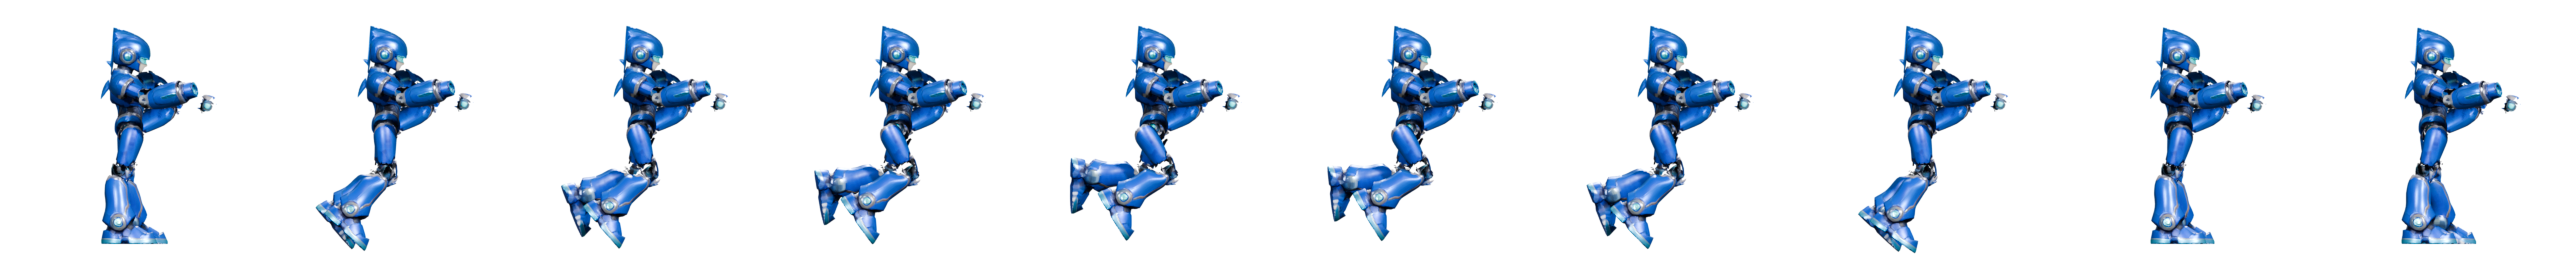
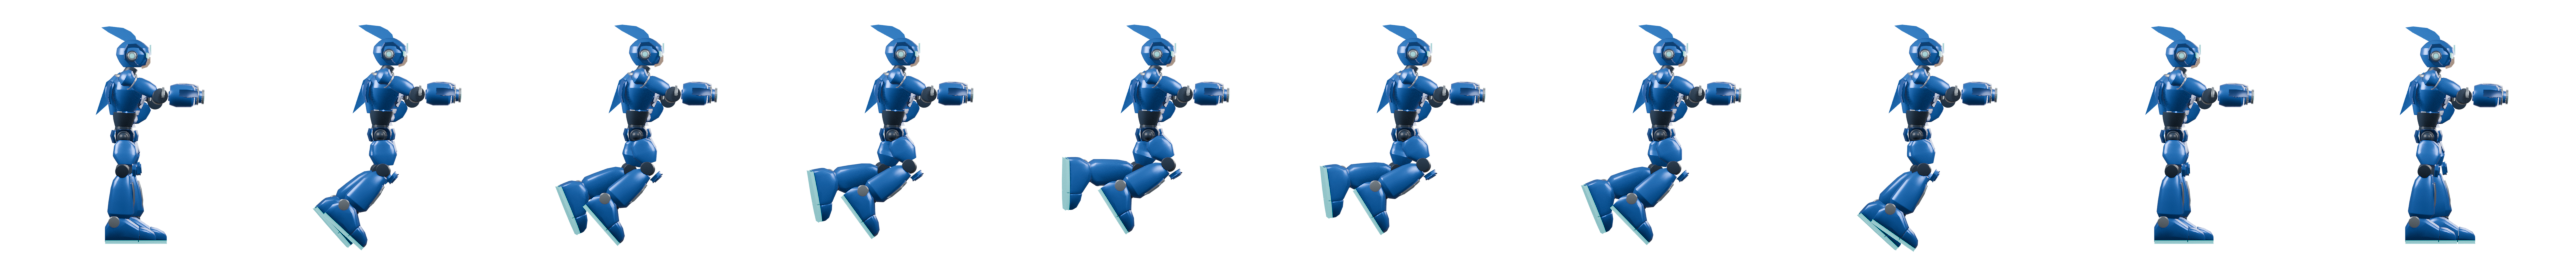
[claude] char: hold Rodin hero, restore shell hero with new motion set
The Sketch-tier mesh (3,671 open-sheet fragments, left arm fused to the
flank) cannot pass quality: every remesh/bake/binding combination leaves
either tenting membranes, double-wall lacing or bake moire - full
experiment ledger in HANDOFF. Generated assets and the complete
retarget pipeline are preserved under blender/hero/gen_v1/ for a retry
with a manifold-quality generation. Local tree = shell hero at
ASSET_VER 2026071804 with the wide-stride/combat-idle motion work,
verified 43/48/30 and in-game. Not deployed.

diff --git a/index.html b/index.html
@@ -167,7 +167,7 @@ function manageBgm(){            // 毎フレーム呼ぶ（状態に応じてBG
 // 各エンティティ＝{fw,fh,scale,ax,ay, anims:{name:{src,frames,fps}}}。
 // anim毎に1枚の横ストリップPNG（コマを横一列）。素材配置後にここを記述する。
 // ★キャッシュ無効化: 素材PNGを差し替えたら ASSET_VER を変えると、ブラウザ/CDNが必ず新素材を取得する。
-const ASSET_VER = '2026072003';
+const ASSET_VER = '2026071804';
 function _av(s){ return s + (s.indexOf('?')<0 ? '?v=' : '&v=') + ASSET_VER; }
 const ASSETS = {
   // 現在のBlender全身リグを、ローカル実機テスト用にそのまま書き出した3Dレンダー。
@@ -975,7 +975,7 @@ const RUN_CYCLE_DISTANCE=64;
 const HERO3D_ENABLED=!(typeof globalThis!=='undefined' && globalThis.location &&
   /(?:^|[?&])hero=legacy(?:&|$)/.test(globalThis.location.search||''));
 // export_game_sprites.py が同じレンダーから生成する砲口座標。実データは素材検査後に埋め込む。
-const PLAYER3D_MUZZLE={"idle":[[177.0215,163.2643],[175.9825,163.8596],[175.0066,164.3982],[174.1627,164.8482],[173.5117,165.1856],[173.1008,165.3942],[172.9604,165.4647],[173.1008,165.3942],[173.5117,165.1856],[174.1627,164.8482],[175.0066,164.3982],[175.9825,163.8596],[177.0215,163.2643],[178.0515,162.6511],[179.003,162.0638],[179.8135,161.5474],[180.4312,161.1435],[180.8176,160.8863],[180.949,160.798],[180.8176,160.8863],[180.4312,161.1435],[179.8135,161.5474],[179.003,162.0638],[178.0515,162.6511]],"shoot":[[210.7004,106.2473],[206.5981,112.0933],[208.5448,109.4154],[209.9409,107.4138],[210.7004,106.2473],[210.7004,106.2473],[210.7004,106.2473],[210.7004,106.2473]],"charge":[[210.1684,113.4474],[210.1799,113.7107],[210.1877,113.9035],[210.1905,113.974],[210.1877,113.9035],[210.1799,113.7107],[210.1684,113.4474],[210.1562,113.1841],[210.1467,112.9914],[210.1431,112.9209],[210.1467,112.9914],[210.1562,113.1841]],"run":[[63.423,82.7201],[60.2666,85.2205],[59.2815,92.2721],[63.531,100.9201],[68.8548,113.0884],[77.8346,126.3118],[89.633,137.8103],[102.0962,146.0519],[112.7521,151.0684],[119.7201,153.486],[125.769,155.4979],[119.3615,155.5499],[110.3531,153.5692],[101.7187,146.5058],[89.5489,137.3766],[77.8346,126.3118],[68.4449,113.9501],[62.4165,101.7535],[59.6615,91.4934],[59.1727,84.3792]],"runshoot":[[235.469,110.9919],[231.9753,111.5892],[230.2522,111.4503],[232.1305,108.4977],[231.9643,106.5634],[231.6951,105.8562],[231.4256,106.0927],[231.2588,106.9878],[231.2588,108.2442],[231.4256,109.2338],[235.4596,110.9919],[231.9533,111.5892],[230.2396,111.4503],[232.1305,108.4977],[231.9643,106.5634],[231.6951,105.8562],[231.4256,106.0927],[231.2588,106.9878],[231.2588,108.2442],[231.4256,109.2338]],"runcharge":[[234.5294,114.1387],[231.0356,114.7357],[229.3124,114.5965],[231.1907,111.6438],[231.0246,109.7099],[230.7555,109.0031],[230.4861,109.24],[230.3193,110.1353],[230.3193,111.3918],[230.4861,112.3811],[234.52,114.1387],[231.0136,114.7357],[229.2999,114.5965],[231.1907,111.6438],[231.0246,109.7099],[230.7555,109.0031],[230.4861,109.24],[230.3193,110.1353],[230.3193,111.3918],[230.4861,112.3811]],"jump":[[70.8593,158.6146],[88.8877,163.5669],[114.0146,168.8908],[133.0654,170.28],[126.0113,172.0219],[115.1051,173.2955],[103.5014,173.1277],[90.3864,170.5642],[96.1457,171.8802],[104.2799,175.6779]],"jumpshoot":[[214.0271,108.887],[214.9694,107.1594],[214.9694,107.1594],[214.9694,107.1594],[214.9694,107.1594],[214.9694,107.1594],[214.9694,107.1594],[214.9694,107.1594],[215.5976,108.7299],[214.0271,108.9813]]};
+const PLAYER3D_MUZZLE={"idle":[[179.0889,145.3695],[178.2556,145.9871],[177.4705,146.5497],[176.7897,147.0228],[176.2633,147.3795],[175.9307,147.6009],[175.8169,147.6759],[175.9307,147.6009],[176.2633,147.3795],[176.7897,147.0228],[177.4705,146.5497],[178.2556,145.9871],[179.0889,145.3695],[179.9122,144.7376],[180.6704,144.1362],[181.3143,143.6102],[181.8038,143.2006],[182.1095,142.9404],[182.2134,142.8513],[182.1095,142.9404],[181.8038,143.2006],[181.3143,143.6102],[180.6704,144.1362],[179.9122,144.7376]],"shoot":[[200.9185,94.4645],[196.4451,99.1412],[198.536,96.9883],[200.0745,95.3919],[200.9185,94.4645],[200.9185,94.4645],[200.9185,94.4645],[200.9185,94.4645]],"charge":[[200.9762,100.7273],[201.0196,100.9625],[201.051,101.1348],[201.0624,101.1979],[201.051,101.1348],[201.0196,100.9625],[200.9762,100.7273],[200.932,100.4922],[200.8993,100.3202],[200.8872,100.2573],[200.8993,100.3202],[200.932,100.4922]],"run":[[74.2389,79.8692],[71.0413,82.3312],[70.0437,89.0359],[74.231,97.1181],[79.3487,108.6717],[87.9438,121.4269],[99.2358,132.7346],[111.1806,141.0669],[121.4018,146.3471],[128.0711,149.0495],[133.9824,151.2395],[127.6216,151.2951],[118.8631,149.1505],[110.6719,141.8369],[99.0736,132.5066],[87.9438,121.4269],[79.0261,109.3092],[73.2755,97.5816],[70.6015,87.8855],[70.0659,81.2607]],"runshoot":[[224.1437,100.1171],[220.6302,100.7275],[218.8948,100.5967],[220.7731,97.644],[220.6192,95.7018],[220.3699,94.9814],[220.12,95.2046],[219.9653,96.0914],[219.9654,97.3478],[220.12,98.3457],[224.1343,100.1171],[220.6082,100.7275],[218.8822,100.5967],[220.7731,97.644],[220.6192,95.7018],[220.3699,94.9814],[220.12,95.2046],[219.9653,96.0914],[219.9654,97.3478],[220.12,98.3457]],"runcharge":[[223.4194,102.7943],[219.9061,103.4048],[218.1707,103.2739],[220.049,100.3213],[219.8951,98.3791],[219.6456,97.6586],[219.3957,97.8818],[219.241,98.7686],[219.241,100.025],[219.3957,101.0229],[223.41,102.7943],[219.8841,103.4048],[218.1581,103.274],[220.049,100.3213],[219.8951,98.3791],[219.6456,97.6586],[219.3957,97.8818],[219.241,98.7686],[219.241,100.025],[219.3957,101.0229]],"jump":[[85.5049,144.0227],[102.0391,149.1371],[124.8352,154.7089],[141.9381,154.9372],[135.3369,155.3253],[125.3617,155.592],[114.8804,154.8533],[103.0518,152.4178],[108.6454,154.5063],[115.4707,156.998]],"jumpshoot":[[204.2118,97.0609],[205.1541,95.3334],[205.1541,95.3334],[205.1541,95.3334],[205.1541,95.3334],[205.1541,95.3334],[205.1541,95.3334],[205.1541,95.3334],[205.7823,96.9039],[204.2118,97.1552]]};
 let playerRenderInfo={source:'none',anim:null,frame:null,chargeOverlay:false};
 
 function player3DRunFrame(distance){

diff --git a/HANDOFF.md b/HANDOFF.md
@@ -1,5 +1,14 @@
 # HANDOFF — Claude ↔ Codex 協働ログ（新しい順に上へ追記）
 
+## 2026-07-20 — [claude] hero-gen-hold: 生成キャラを品質不足で保留・シェル版へ復帰（ローカル）
+- ユーザー指摘「造形がぶっ壊れてない？」→ 全コマ精査で確認: 生成キャラは肘ジュエル浮遊・輪郭ギザつき・腕融合の板状アーティファクトが実用基準未達。修復を10回超イテレーションした結論:
+  - **根本原因はRodin Sketchティアの素性**: ①3,671断片の開いた薄板メッシュ（Bone Heat不成立・剛体バインドは境界破綻） ②左腕が体側に密着した非対称ポーズで、ボクセルリメッシュすると脇〜腰に融合膜が生成され、ポーズで必然的にテントする（実測: f12でエッジ伸長>1.6が2,760頂点・腕/脚/胴の境界全域）。
+  - 試行と結果の台帳: 剛体最近傍→領域制限→BFSリム分割→アイランド多数決→関節ジュエル強制（浮遊解消も融合膜残存）／防水リメッシュ+Bone Heat（走り・射撃はクリーン化、脇膜がテント）／細ボクセル=開板の二重壁レース化・粗ボクセル=穴／ベイク4方式（Cycles画像・Cycles頂点・BVH最近傍・外側レイキャスト）は多重シェル内面の干渉で全滅、側面投影は遮蔽で破綻、ゾーン塗りで色は解決するが土台の斑が幾何起因と判明／腕分離リメッシュ（3分割）はスカルプトAPI版で密度不安定。**唯一の良好組合せ=全体一括モディファイアリメッシュ+Cyclesベイク**だが融合膜アーティファクトが残る。
+  - **再挑戦の正道（次回タスク）**: 上位ティアRodin/Tripo等の**マニフォールド一枚メッシュ**で再生成すれば、構築済みパイプライン（`gen_v1/build_clean_rig.py`: ランドマークフィット・axesロール継承・二段バインド・`export_game_sprites_gen.py`）がそのまま機能する見込み。素材・スクリプト・実測ノウハウは `blender/hero/gen_v1/` に全保全。
+- 復帰: `git checkout 8f975f7 -- index.html assets/player3d_*.png` でシェル版ヒーロー＋全モーション改修（ワイドストライド走行・戦闘構え・照準系）に戻した。ASSET_VER=2026071804。43/48/30全通過・実機で idle/run/shoot クリーン確認。
+- 注意: `assets/player3d_anchors.json`（未追跡）は生成キャラ版のまま＝インラインPLAYER3D_MUZZLEとは不整合（実行時は未参照で無害）。シェル版で再書き出しすれば同期する。
+- 公開: 未デプロイ。**現ローカル=デプロイ推奨状態**（3コミット分のモーション改修込み）。
+
 ## 2026-07-20 — [claude] hero-gen: 承認済みキャラマスターから3D主人公を再生成（ローカル反映・デプロイ待ち）
 - 経緯: ユーザー「作画からやり直し」→ 調査で判明: 承認済みレンダー（`docs/mock/character-master.png`＋三面図・7/15承認）は正しく、壊れていたのは絵→3D粘土の手作業翻訳工程。承認画像から直接3D生成する方式へ転換（ユーザー承認済・トライアル枯渇時停止の条件付き）。
 - 生成: Hyper3D Rodin 無料トライアル（BlenderMCPアドオン・MAIN_SITE/Sketchティア・1ジョブのみ消費）。入力=三面図3方向＋マスター3/4（`blender/hero/gen_inputs/`）。出力25,781頂点・テクスチャ付き→ `blender/hero/gen_v1/cobalt_hero_gen_v1.blend`。
